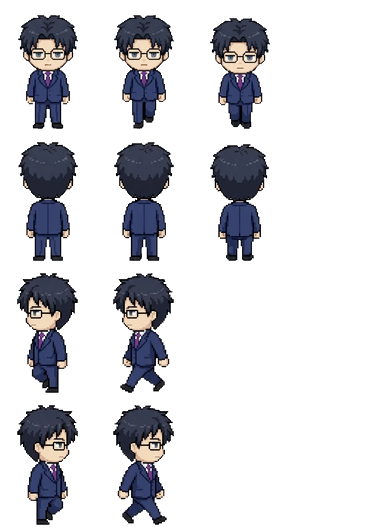
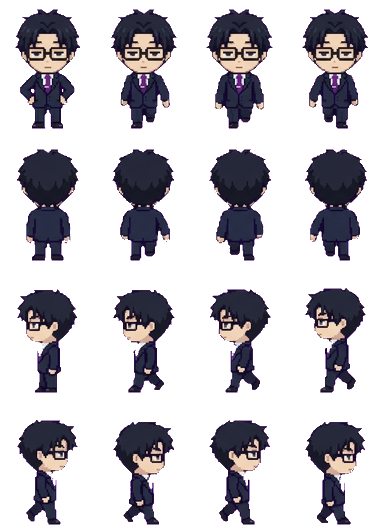
Redraw Nifuji Hirotaka in the shared art style; keep purple tie from being keyed out
Claude-Session: https://claude.ai/code/session_01KaPsBYLrtbRfMYNG2xeBCK

diff --git a/docs/app.js b/docs/app.js
@@ -75,7 +75,7 @@ function spr(cat, k, col, sc) {
   return `<div class="clip" style="width:${it[2] * sc}px;height:${it[3] * sc}px;POS"><img class="px" src="assets/decor/${cat}.png" alt="" style="width:${S.sw * sc}px;height:${S.sh * sc}px;margin-left:${-col * S.cw * sc}px;margin-top:${-i * S.ch * sc}px"></div>`;
 }
 const icon = (k, sz) => `<span class="itm" style="width:${sz}px;height:${sz}px"><img class="px" src="assets/ui/items.png" alt="" style="width:${IT.length * sz}px;height:${sz}px;margin-left:${-ITM[k].i * sz}px"></span>`;
-const face = (id, w) => { const s = w / 96; return `<img class="px" src="assets/ch/${id}.webp?v=42" alt="" style="position:absolute;width:${384 * s}px;height:${528 * s}px;left:${-(96 * s - w) / 2}px;top:0;max-width:none">`; };
+const face = (id, w) => { const s = w / 96; return `<img class="px" src="assets/ch/${id}.webp?v=43" alt="" style="position:absolute;width:${384 * s}px;height:${528 * s}px;left:${-(96 * s - w) / 2}px;top:0;max-width:none">`; };
 
 // ---------- 저장 ----------
 let fb = null, user = null, S = null, saveT = null;
@@ -143,7 +143,7 @@ function sleepHTML(id, r, dy) {
   const pos = r.a && r.a[0] === 'bed' ? 'left:3%;bottom:20%' : r.b && r.b[0] === 'bed' ? 'right:3%;bottom:20%' : 'left:calc(50% - 44px);bottom:6%';
   const s = 36 / 96;
   return `<div style="position:absolute;width:88px;height:56px;${pos};z-index:${dy ? 4 : 5};${dy ? `transform:translate(12px,${dy}px)` : ''}"><div style="position:absolute;inset:0;filter:brightness(.22)">
-    <div style="position:absolute;left:11px;top:1px;width:36px;height:50px;overflow:hidden;transform:rotate(-90deg)"><img class="px" src="assets/ch/${id}.webp?v=42" alt="" style="width:${384 * s}px;height:${528 * s}px;max-width:none;margin-top:${-132 * s}px"></div>
+    <div style="position:absolute;left:11px;top:1px;width:36px;height:50px;overflow:hidden;transform:rotate(-90deg)"><img class="px" src="assets/ch/${id}.webp?v=43" alt="" style="width:${384 * s}px;height:${528 * s}px;max-width:none;margin-top:${-132 * s}px"></div>
     <div style="position:absolute;left:19px;top:19px;width:67px;height:29px;border:2px solid var(--ink);border-radius:8px 6px 4px 4px;background:#8ccff5;background-image:repeating-linear-gradient(90deg,transparent 0 10px,rgba(255,255,255,.5) 10px 13px)"></div></div>
     ${dy ? '' : '<span class="emo" style="left:8px;top:-22px;color:#5b6bd6">Z z z</span>'}</div>`;
 }
@@ -153,8 +153,8 @@ function roomHTML(id, o, scale) {
     <div class="floor" style="background-color:${PAL[r.fc][1]};background-image:${tileUrl('floor', r.fl)}"></div>
     ${slot('deco', r.dc, 'left:6%;top:6%')}${slot('furn', r.a, 'left:3%;bottom:20%')}${slot('furn', r.b, 'right:3%;bottom:20%')}${slot('prop', r.pr, 'left:28%;bottom:4%;z-index:2')}
     ${id && o.sleeping && g ? sleepHTML(g, r, -16) : ''}${id && o.sleeping ? sleepHTML(id, r) : ''}${id && o.job ? `<div style="position:absolute;left:50%;top:38%;transform:translateX(-50%);z-index:5;background:#fff;border:3px solid var(--ink);border-radius:10px;padding:6px 10px;font-size:11px;text-align:center;line-height:1.5"><img src="assets/ui/ic_job.png" alt="" style="width:18px;vertical-align:-4px"> ${WORK[id] ? WORK[id][1] : esc(JOB_NAME[id]) + ' 알바 중'}${g ? `<br><small>${esc(nameOf(g))}도 같이</small>` : ''}<br><b id="jobleft">${timeLeft(o.job.until)}</b></div>` : ''}
-    ${id ? `<div class="shadow" id="shd" ${o.sleeping || o.job ? 'style="display:none"' : ''}></div><div class="man" id="man" ${o.sleeping || o.job ? 'style="display:none"' : ''}><img class="px" src="assets/ch/${id}.webp?v=42" alt="${esc(nameOf(id))}"></div><span class="emo" id="emo" hidden></span><span class="mumble" id="mum" hidden></span>` : ''}
-    ${g ? `<div class="shadow" id="gshd" ${hideG}></div><div class="man" id="gman" ${hideG}><img class="px" src="assets/ch/${g}.webp?v=42" alt="${esc(nameOf(g))}"></div><span class="emo" id="gemo" hidden></span><span class="mumble gmum" id="gmum" hidden></span>` : ''}
+    ${id ? `<div class="shadow" id="shd" ${o.sleeping || o.job ? 'style="display:none"' : ''}></div><div class="man" id="man" ${o.sleeping || o.job ? 'style="display:none"' : ''}><img class="px" src="assets/ch/${id}.webp?v=43" alt="${esc(nameOf(id))}"></div><span class="emo" id="emo" hidden></span><span class="mumble" id="mum" hidden></span>` : ''}
+    ${g ? `<div class="shadow" id="gshd" ${hideG}></div><div class="man" id="gman" ${hideG}><img class="px" src="assets/ch/${g}.webp?v=43" alt="${esc(nameOf(g))}"></div><span class="emo" id="gemo" hidden></span><span class="mumble gmum" id="gmum" hidden></span>` : ''}
     ${o.sleeping ? `<div class="night"></div><div class="sleepleft">쿨쿨 · 일어나기까지 <b id="sleepleft">${timeLeft(wakeAt(o)).replace(' 남음', '')}</b></div>` : ''}
   </div>`;
 }
@@ -167,7 +167,7 @@ function meterHTML(o) {
 const ic = (act, img, label, pressed) => `<button class="ic" data-act="${act}" ${pressed ? 'aria-pressed="true"' : ''}><img src="assets/ui/ic_${img}.png?v=2" alt="">${label}</button>`;
 
 let dropStyle = null; const cheat = {};
-const APP_V = 114, COUPONS = { NINOGUYA: 3000 };
+const APP_V = 115, COUPONS = { NINOGUYA: 3000 };
 // 쿠폰 입력 정리: 한글 자판 상태로 친 글자(ㅜㅑㅜㅐ혀ㅛㅁ)도 영어 자판 글자로 바꾸고, 대소문자·띄어쓰기·마침표는 무시해요
 const KEY = { ㄱ: 'r', ㄲ: 'R', ㄴ: 's', ㄷ: 'e', ㄸ: 'E', ㄹ: 'f', ㅁ: 'a', ㅂ: 'q', ㅃ: 'Q', ㅅ: 't', ㅆ: 'T', ㅇ: 'd', ㅈ: 'w', ㅉ: 'W', ㅊ: 'c', ㅋ: 'z', ㅌ: 'x', ㅍ: 'v', ㅎ: 'g',
   ㅏ: 'k', ㅐ: 'o', ㅑ: 'i', ㅒ: 'O', ㅓ: 'j', ㅔ: 'p', ㅕ: 'u', ㅖ: 'P', ㅗ: 'h', ㅘ: 'hk', ㅙ: 'ho', ㅚ: 'hl', ㅛ: 'y', ㅜ: 'n', ㅝ: 'nj', ㅞ: 'np', ㅟ: 'nl', ㅠ: 'b', ㅡ: 'm', ㅢ: 'ml', ㅣ: 'l',
@@ -407,7 +407,7 @@ function startTrip(k) {
   if (tg) lines[1] = `${nameOf(tg)}: ${withHim(sub(pick(GLX(tg).trip), o, c.n), tg)}`;
   const n = (FR[id] || [4, 4, 4, 4])[3], el = document.createElement('div'); el.className = 'tripview';
   el.innerHTML = `<div class="tsay"> </div><div class="tstage" style="background-image:url(assets/travel/${k}.png?v=2)"><div class="tplace">${esc(c.n)}</div>
-    <div class="twalker"><img class="px" src="assets/ch/${id}.webp?v=42" alt=""></div>${tg ? `<div class="twalker tgirl"><img class="px" src="assets/ch/${tg}.webp?v=42" alt=""></div>` : ''}<span class="emo tjoy">♪</span></div>
+    <div class="twalker"><img class="px" src="assets/ch/${id}.webp?v=43" alt=""></div>${tg ? `<div class="twalker tgirl"><img class="px" src="assets/ch/${tg}.webp?v=43" alt=""></div>` : ''}<span class="emo tjoy">♪</span></div>
     <div class="tbar"><i></i></div><button class="btn white tskip" data-tskip="1">바로 돌아오기</button>`;
   document.body.appendChild(el);
   const gimg = el.querySelector('.tgirl img'), gn = tg ? (FR[tg] || [4, 4, 4, 4])[3] : 1;
@@ -636,7 +636,7 @@ setInterval(() => { if (S && user) { tickTime(); save(); } }, 60000);
     if (nv > APP_V && !location.search.includes('u=' + nv)) { location.replace(location.pathname + '?u=' + nv); return; }
   } catch { }
   app.innerHTML = '<div class="start"><div class="egg"><div class="scr"></div></div><div class="note">불러오는 중....</div></div>';
-  const [c, t, f, it, mu, ct, tv, gl, sts] = await Promise.all(['data/chars.json', 'data/talk.json', 'data/frames.json', 'data/items.json', 'data/mumble.json', 'data/countries.json', 'data/travel.json', 'data/girls.json', 'data/sets.json'].map(u => fetch(u + '?v=114').then(r => r.ok ? r.json() : {})));
+  const [c, t, f, it, mu, ct, tv, gl, sts] = await Promise.all(['data/chars.json', 'data/talk.json', 'data/frames.json', 'data/items.json', 'data/mumble.json', 'data/countries.json', 'data/travel.json', 'data/girls.json', 'data/sets.json'].map(u => fetch(u + '?v=115').then(r => r.ok ? r.json() : {})));
   CH = c; CHM = Object.fromEntries(c.map(x => [x.id, x])); TALK = t; FR = f; IT = it; ITM = Object.fromEntries(it.map(x => [x.k, x])); MUM = mu; CTRY = ct; TRV = tv; GL = Array.isArray(gl) ? gl : []; SETS = Array.isArray(sts) ? sts : []; GLM = Object.fromEntries(GL.map(x => [x.id, x]));
   try { await initFirebase(); } catch (e) { console.warn('Firebase 연결 실패, 기기 저장으로', e); fb = null; }
   if (fb) {

diff --git a/docs/index.html b/docs/index.html
@@ -18,6 +18,6 @@
 <main id="app" aria-live="polite"></main>
 <div id="toast" role="status" hidden></div>
 <script src="firebase-config.js?v=3"></script>
-<script type="module" src="app.js?v=114"></script>
+<script type="module" src="app.js?v=115"></script>
 </body>
 </html>

diff --git a/tk_magenta.py b/tk_magenta.py
@@ -59,11 +59,17 @@ def strip_white(out):
         al &= ~rm
     out[..., 3] = np.where(al, 255, 0); return out
 
+KEEP_PURPLE = {'nifuji'}   # 보라 넥타이처럼 분홍기 빼기에 지워지는 색이 있는 시트
 STRIP = {'chiyo'}   # 흰 테두리가 있는 시트 (흰 테두리 덕분에 분홍기 빼기도 필요 없어요: 보라 눈이 지워지지 않게)
 def cells(path, cols=5, rows=4):
     global NO_DESPILL
-    st = any(k in path for k in STRIP); NO_DESPILL = st
+    st = any(k in path for k in STRIP); NO_DESPILL = st or any(k in path for k in KEEP_PURPLE)
     im = np.asarray(Image.open(path).convert('RGB')); H, W = im.shape[:2]; a = key(im); NO_DESPILL = False
+    if any(k in path for k in KEEP_PURPLE):   # 몸 안쪽에 갇힌 구멍(보라 넥타이 등)은 원래 색으로 채워요
+        al = a[..., 3] > 0; R, G, B = [im[..., i].astype(int) for i in range(3)]
+        pure = (R > 200) & (B > 200) & (G < 70)   # 팔 사이로 보이는 진짜 배경은 채우지 않아요
+        filled = ndimage.binary_fill_holes(al) & (al | ~pure)
+        a[..., :3] = np.where((filled & ~al)[..., None], im, a[..., :3]); a[..., 3] = np.where(filled, 255, 0)
     if st:   # 흰 테두리 시트: 보통처럼 자른 뒤, 캐릭터 안쪽에 갇힌 구멍(배경색과 비슷한 보라 눈 등)은 원래 색으로 채우고 흰 테두리를 깎아요
         al = a[..., 3] > 0; filled = ndimage.binary_fill_holes(al)
         a[..., :3] = np.where((filled & ~al)[..., None], im, a[..., :3]); a[..., 3] = np.where(filled, 255, 0)
